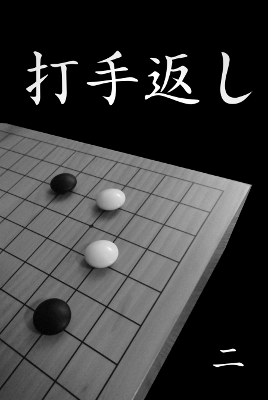
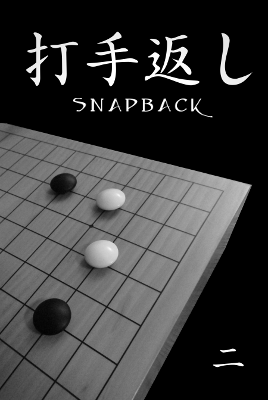
Better cover images for Snapbacks

Changed region(s): [[0.0896, 0.06, 0.7761, 0.3], [0.806, 0.09, 0.9552, 0.27]]

diff --git a/app/assets/stylesheets/snapback/snapback.css.scss b/app/assets/stylesheets/snapback/snapback.css.scss
@@ -115,6 +115,10 @@ h1 {
   width: 60%;
 }
 
+.snapback-icon-link {
+  width: 175px;
+}
+
 ///  BOOK STUFF
 
 .snapback-book {

diff --git a/app/controllers/crm/assistants_controller.rb b/app/controllers/crm/assistants_controller.rb
@@ -65,7 +65,7 @@ class Crm::AssistantsController < Crm::CrmController
       current_user.assistant = @assistant
       current_user.save
       add_initial_objects_to_crm
-      record_positive_event(Log::CRM, "#{current_user.username} created a new ghostCRM assistant \"#{@assistant.name}\"")
+      record_positive_event(Log::CRM, "#{current_user.username} created a new ghostCRM assistant, \"#{@assistant.name}\"!")
     else
       @assistant = nil
     end
